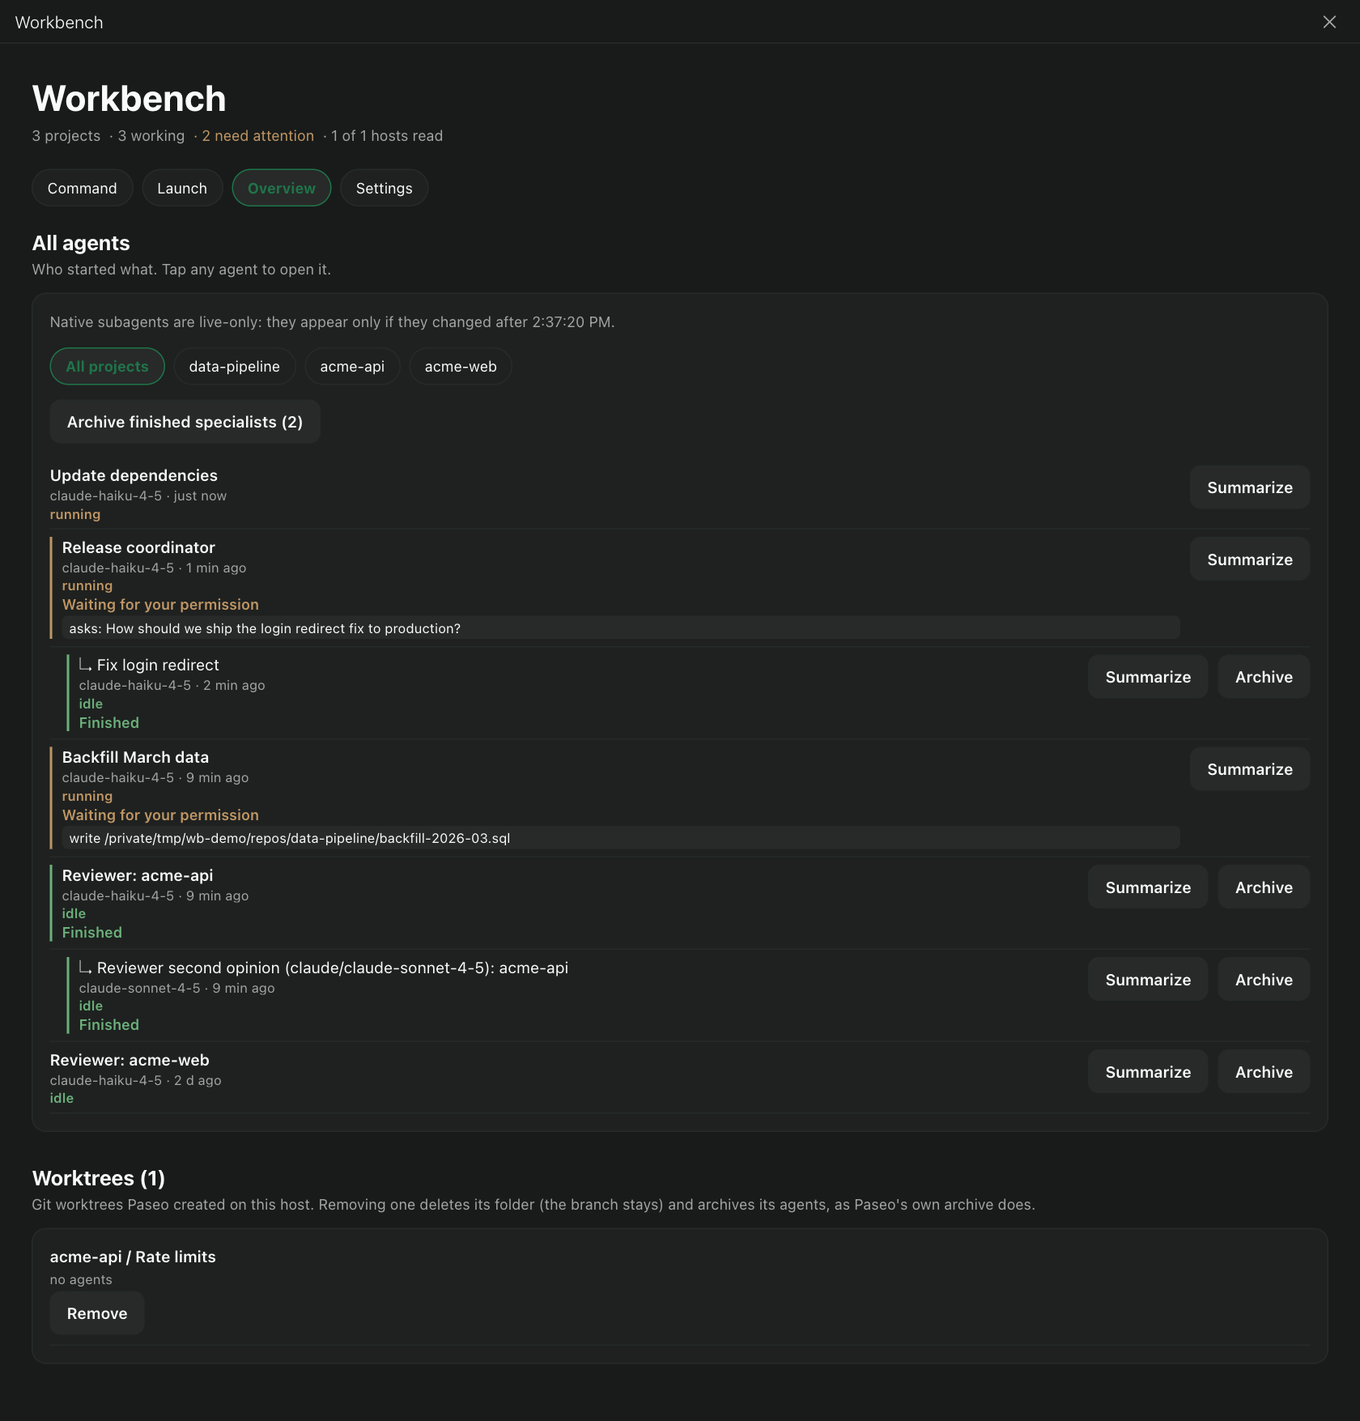
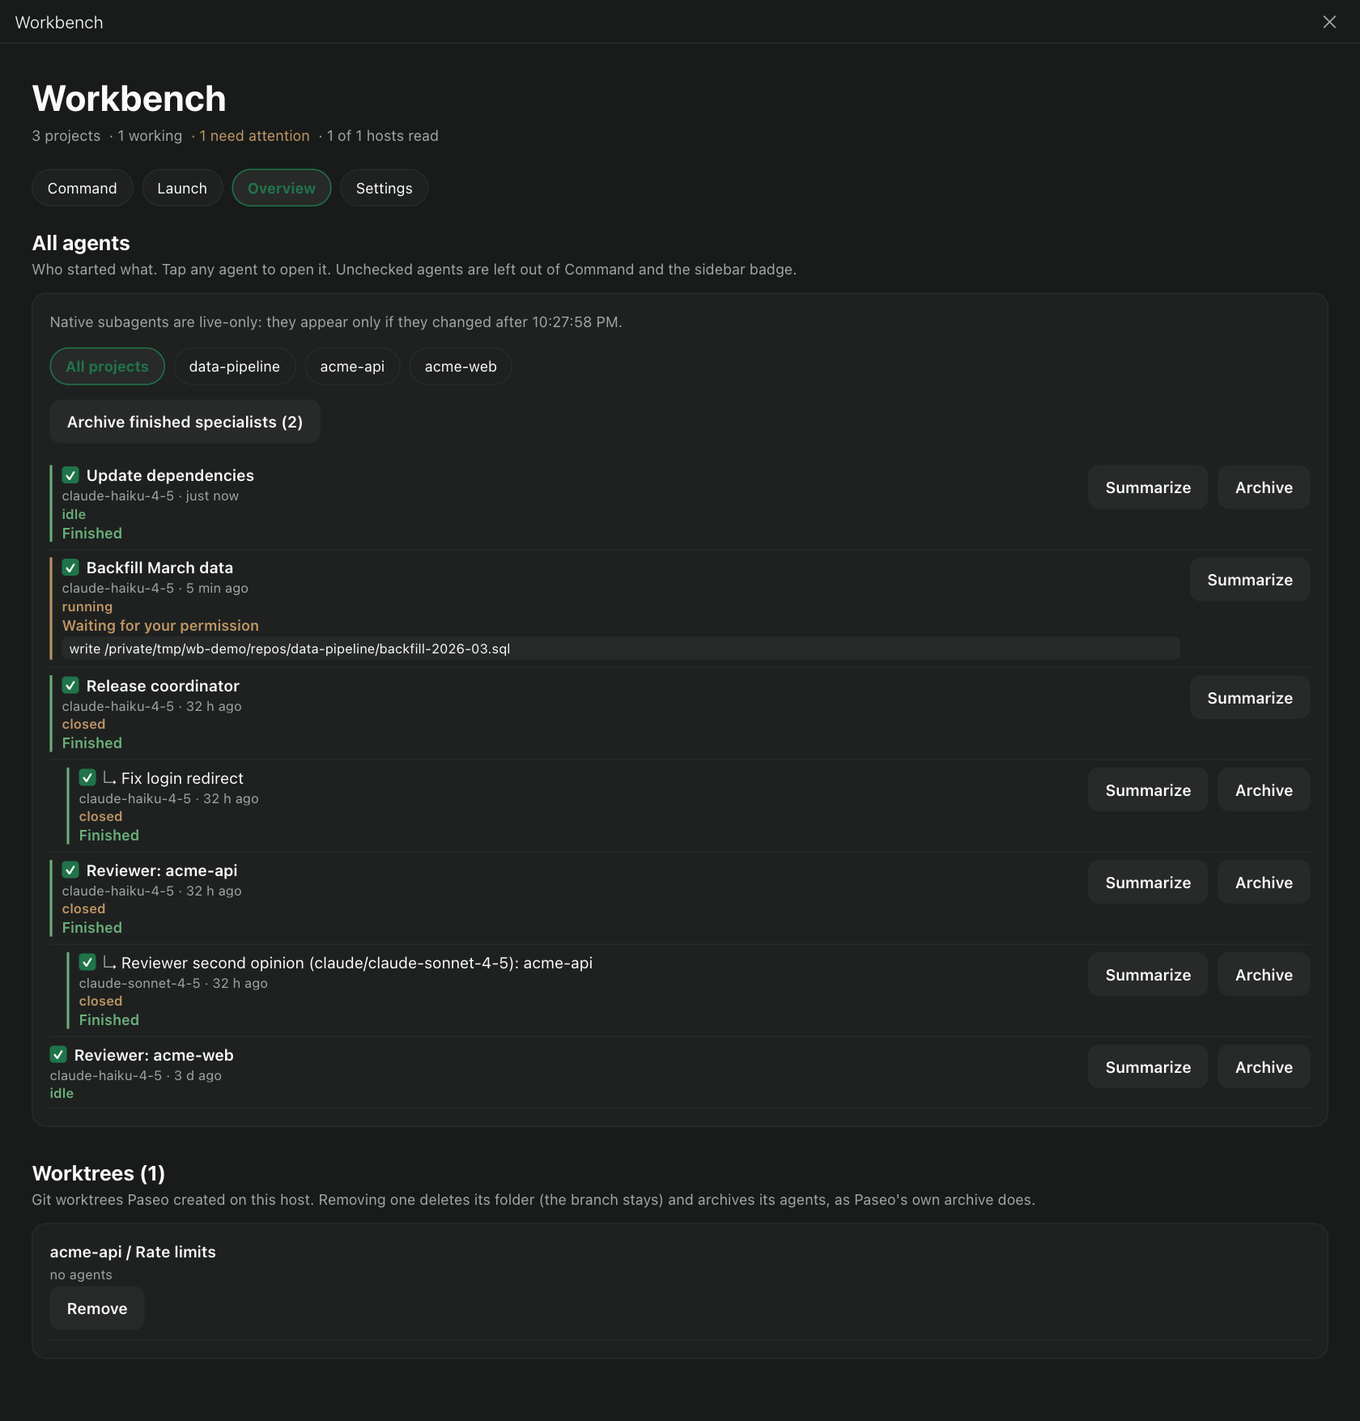
Overview watch checkbox; Command remembers the selected coordinator
- A checkbox per agent in Overview: unchecked agents (setting unwatchedAgents, "serverId:agentId") are left out of Command's lists and counts and the sidebar badge; Overview and coordinator trees still show them.
- The coordinator selected in Command is kept on globalThis per host: Paseo re-evaluates the module when the screen comes back.
- Overview screenshot updated. 0.1.0-alpha.28.

diff --git a/client/WorkbenchScreen.tsx b/client/WorkbenchScreen.tsx
@@ -3,7 +3,7 @@ import { getPaseoClient, useSettings } from "@getpaseo/plugin/client";
 import { useMemo, useState } from "react";
 import { ScrollView, Text, View } from "react-native";
 import { preferences, isCoordinatorHome, type Preferences } from "../shared/settings";
-import { attentionGroups, attentionHeadline, finishedSpecialists, groupProjects, isReadyToReview, isWorking, withTeam } from "../shared/model";
+import { agentKey, attentionGroups, attentionHeadline, finishedSpecialists, groupProjects, isReadyToReview, isWorking, watchedAgents, withTeam } from "../shared/model";
 import { useCoordinators } from "./Coordinators";
 import { LaunchTab } from "./LaunchTab";
 import { AttentionList } from "./AttentionList";
@@ -22,6 +22,11 @@ import { importSpecialists, mergeSpecialists } from "../shared/specialistFiles";
 
 type Tab="command"|"launch"|"overview"|"settings";
 
+// The coordinator chosen in Command, per host. Paseo unmounts this screen when you open another chat and evaluates
+// this module again when it comes back, so neither component state nor a module variable kept it; globalThis lasts
+// while the app runs (not across restarts).
+const selectedCoordinator=((globalThis as {__workbenchSelectedCoordinator?:Map<string,string>}).__workbenchSelectedCoordinator??=new Map<string,string>());
+
 export function WorkbenchScreen(props:PluginScreenProps) {
   const {theme}=props;
   const settings=useSettings(preferences);
@@ -36,7 +41,8 @@ export function WorkbenchScreen(props:PluginScreenProps) {
 function ReadyWorkbench({host,theme,layout,navigation,directory,values,onSave}:PluginScreenProps & {directory:ReturnType<typeof useDirectory>;values:Preferences;onSave:(next:Preferences)=>Promise<boolean>}){
   const [tab,setTab]=useState<Tab>("command");
   const [overviewFilter,setOverviewFilter]=useState("");
-  const [commandSelection,setCommandSelection]=useState("");
+  const [commandSelection,setSelection]=useState(()=>selectedCoordinator.get(host.id)??"");
+  const setCommandSelection=(id:string)=>{selectedCoordinator.set(host.id,id);setSelection(id)};
   const [importText,setImportText]=useState("");
   const [confirmBulk,setConfirmBulk]=useState(false);
   const [worktreesVersion,setWorktreesVersion]=useState(0);
@@ -44,11 +50,22 @@ function ReadyWorkbench({host,theme,layout,navigation,directory,values,onSave}:P
   const [message,setMessage]=useState<{kind:"info"|"error"|"success";text:string}|null>(null);
   // Coordinator homes are Workbench plumbing, not user projects.
   const projects=useMemo(()=>groupProjects(directory.workspaces.filter(w=>!isCoordinatorHome(w.directory)),directory.agents),[directory.workspaces,directory.agents]);
-  const attentionByProject=useMemo(()=>attentionGroups(directory.agents,projects),[directory.agents,projects]);
+  // Command and its counts follow the agents checked in Overview; Overview and coordinator trees show every agent.
+  const watched=useMemo(()=>watchedAgents(directory.agents,values.unwatchedAgents),[directory.agents,values.unwatchedAgents]);
+  const attentionByProject=useMemo(()=>attentionGroups(watched,projects),[watched,projects]);
   const attention=attentionByProject.flatMap(g=>g.items);
-  const attentionIndex=useMemo(()=>new Map(attention.map(i=>[`${i.serverId}:${i.agentId}`,i])),[attentionByProject]);
-  const running=directory.agents.filter(isWorking);
-  const readyToReview=directory.agents.filter(isReadyToReview);
+  const attentionIndex=useMemo(()=>new Map(attention.map(i=>[agentKey(i),i])),[attentionByProject]);
+  const allAttentionIndex=useMemo(()=>new Map(attentionGroups(directory.agents,projects).flatMap(g=>g.items).map(i=>[agentKey(i),i])),[directory.agents,projects]);
+  const running=watched.filter(isWorking);
+  const readyToReview=watched.filter(isReadyToReview);
+  const unwatched=new Set(values.unwatchedAgents);
+  /** Check or uncheck an agent in Overview: whether Command and the sidebar badge count it. */
+  async function toggleWatched(agentId:string,serverId:string){
+    const key=agentKey({agentId,serverId});
+    // shortcut: ids of archived agents are never pruned; the oldest go once the 2000-entry cap is reached.
+    const next=unwatched.has(key)?values.unwatchedAgents.filter(k=>k!==key):[...values.unwatchedAgents,key].slice(-2000);
+    if(!(await onSave({...values,unwatchedAgents:next})))setMessage({kind:"error",text:"Not saved: settings changed on another device, or the host could not be reached. Try again."});
+  }
   const unobserved=Object.keys(directory.errors).length;
   const headline=attentionHeadline(attention.length,unobserved,directory.updatedAt!==null);
   // Labels are display-only and can collide (two daemons on one machine); add the server id when they do.
@@ -129,15 +146,15 @@ function ReadyWorkbench({host,theme,layout,navigation,directory,values,onSave}:P
       <AttentionList theme={theme} groups={attentionByProject} hostSuffix={id=>id&&directory.hosts.length>1?` (${hostLabel(id)})`:""} openAgent={openAgent}/>
     </Section>:null}
     {tab==="command"?<Section theme={theme} title={`Running (${running.length})`}>
-      <RunningList theme={theme} agents={directory.agents} workspaces={directory.workspaces} needsYou={new Set(attentionIndex.keys())} hostSuffix={id=>directory.hosts.length>1?` (${hostLabel(id)})`:""} openAgent={openAgent}/>
+      <RunningList theme={theme} agents={watched} workspaces={directory.workspaces} needsYou={new Set(attentionIndex.keys())} hostSuffix={id=>directory.hosts.length>1?` (${hostLabel(id)})`:""} openAgent={openAgent}/>
     </Section>:null}
     {tab==="command"?<Section theme={theme} title={`Finished (${readyToReview.length})`} subtitle="Paseo's green dot: finished since you last opened it. Opening it in Paseo clears it.">
-      <RunningList theme={theme} kind="finished" agents={directory.agents} workspaces={directory.workspaces} needsYou={new Set()} hostSuffix={id=>directory.hosts.length>1?` (${hostLabel(id)})`:""} openAgent={openAgent}/>
+      <RunningList theme={theme} kind="finished" agents={watched} workspaces={directory.workspaces} needsYou={new Set()} hostSuffix={id=>directory.hosts.length>1?` (${hostLabel(id)})`:""} openAgent={openAgent}/>
     </Section>:null}
     {tab==="command"?<Command host={host} theme={theme} layout={layout} values={values} directory={directory} projects={projects} openAgent={openAgent} onSummarize={summarizeAction}
       coordinators={coordinators} selected={commandSelection} onSelect={setCommandSelection}/>:null}
     {tab==="overview"?<>
-      <Section theme={theme} title="All agents" subtitle="Who started what. Tap any agent to open it.">
+      <Section theme={theme} title="All agents" subtitle="Who started what. Tap any agent to open it. Unchecked agents are left out of Command and the sidebar badge.">
         <Notice theme={theme} text={`Native subagents are live-only: they appear only if they changed after ${directory.nativeSince?new Date(directory.nativeSince).toLocaleTimeString():"this screen opened"}.`}/>
         {Object.entries(directory.nativeErrors).map(([id,error])=><Notice key={id} theme={theme} kind="error" text={`${hostLabel(id)}: native subagent feed unavailable (${error}).`}/>)}
         <Wrap><Choice theme={theme} label="All projects" selected={!overviewFilter} onPress={()=>setOverviewFilter("")}/>
@@ -153,7 +170,8 @@ function ReadyWorkbench({host,theme,layout,navigation,directory,values,onSave}:P
             <Button theme={theme} subtle label={confirmBulk?`Confirm: archive ${finished.length} finished specialist${finished.length===1?"":"s"}`:`Archive finished specialists (${finished.length})`} onPress={()=>{if(!confirmBulk){setConfirmBulk(true);return;}setConfirmBulk(false);void archive(finished)}}/>
             {confirmBulk?<Button theme={theme} subtle label="Cancel" onPress={()=>setConfirmBulk(false)}/>:null}
           </Wrap>:null}
-          <AgentTree theme={theme} agents={agents} native={native} attention={attentionIndex} openAgent={openAgent} onSummarize={summarizeAction} onArchive={archiveOne} empty={unobserved?"No agents on reachable hosts with this filter.":"No agents found with this filter."}/></>;
+          <AgentTree theme={theme} agents={agents} native={native} attention={allAttentionIndex} openAgent={openAgent} onSummarize={summarizeAction} onArchive={archiveOne}
+            watched={(agentId,serverId)=>!unwatched.has(agentKey({agentId,serverId}))} onToggleWatched={(agentId,serverId)=>void toggleWatched(agentId,serverId)} empty={unobserved?"No agents on reachable hosts with this filter.":"No agents found with this filter."}/></>;
         })()}
       </Section>
       <Worktrees theme={theme} version={worktreesVersion}/>

diff --git a/client/AgentTree.tsx b/client/AgentTree.tsx
@@ -7,7 +7,7 @@ import { Button, Notice, Status } from "./ui";
  * Who started what: managed agents nested by Paseo's parent label, provider-native children (live-only) under
  * their parent, and on each node what it is waiting on from you, or that it finished since you last opened it.
  */
-export function AgentTree({ theme, agents, native, attention, openAgent, onSummarize, empty, releasable, onRelease, onArchive }: {
+export function AgentTree({ theme, agents, native, attention, openAgent, onSummarize, empty, releasable, onRelease, onArchive, watched, onToggleWatched }: {
   theme: PluginTheme; agents: readonly WorkbenchAgent[]; native: readonly NativeSubagent[];
   attention: ReadonlyMap<string, AttentionItem>; openAgent: (agentId: string, serverId: string) => void;
   /** Launch the Session summarizer on a managed agent; omitted where that is not possible. */
@@ -16,6 +16,8 @@ export function AgentTree({ theme, agents, native, attention, openAgent, onSumma
   releasable?: ReadonlySet<string>; onRelease?: (agentId: string) => void;
   /** Archive an agent that is done, with its review team (see shared/model.ts `teamArchivable`); omitted where not offered. */
   onArchive?: (agentId: string, serverId: string) => void;
+  /** A checkbox per managed agent: whether Command and the sidebar badge count it (Overview only). */
+  watched?: (agentId: string, serverId: string) => boolean; onToggleWatched?: (agentId: string, serverId: string) => void;
 }) {
   const now = Date.now();
   const color = { permission: theme.colors.statusWarning, error: theme.colors.statusDanger };
@@ -30,7 +32,17 @@ export function AgentTree({ theme, agents, native, attention, openAgent, onSumma
         style={({ pressed }) => ({ paddingLeft: Math.min(row.depth, 8) * 14, paddingVertical: 6, borderBottomWidth: 1, borderColor: theme.colors.border, backgroundColor: pressed ? theme.colors.surface2 : "transparent" })}>
         <View style={{ flexDirection: "row", gap: 8, justifyContent: "space-between", alignItems: "flex-start", flexWrap: "wrap", borderLeftWidth: mark ? 2 : 0, borderColor: mark ? mark.color : "transparent", paddingLeft: mark ? 8 : 0 }}>
           <View style={{ flex: 1, minWidth: 150, gap: 2 }}>
-            <Text style={{ color: theme.colors.foreground, fontSize: 13, fontWeight: row.depth === 0 ? "600" : "400" }}>{row.depth ? "↳ " : ""}{row.title}</Text>
+            <View style={{ flexDirection: "row", gap: 6, alignItems: "flex-start" }}>
+              {watched && onToggleWatched && row.kind === "managed" ? (() => {
+                const on = watched(row.agentId, row.serverId);
+                return <Pressable accessibilityRole="checkbox" accessibilityState={{ checked: on }} aria-checked={on} accessibilityLabel={`Show ${row.title} in Command and the sidebar badge`} hitSlop={6}
+                  onPress={() => onToggleWatched(row.agentId, row.serverId)}
+                  style={{ width: 14, height: 14, marginTop: 2, borderRadius: 3, borderWidth: 1, borderColor: on ? theme.colors.accent : theme.colors.foregroundMuted, backgroundColor: on ? theme.colors.accent : "transparent", alignItems: "center", justifyContent: "center" }}>
+                  {on ? <Text style={{ color: theme.colors.accentForeground, fontSize: 10, lineHeight: 12, fontWeight: "800" }}>✓</Text> : null}
+                </Pressable>;
+              })() : null}
+              <Text style={{ flexShrink: 1, color: theme.colors.foreground, fontSize: 13, fontWeight: row.depth === 0 ? "600" : "400" }}>{row.depth ? "↳ " : ""}{row.title}</Text>
+            </View>
             <Text style={{ color: theme.colors.foregroundMuted, fontSize: 11 }} numberOfLines={2}>
               {row.kind === "native" ? "Native subagent (read-only, live-only; opens its parent) · " : ""}{[row.subtitle, ago(row.updatedAt, now)].filter(Boolean).join(" · ")}
             </Text>

diff --git a/client/SidebarItem.tsx b/client/SidebarItem.tsx
@@ -1,30 +1,30 @@
 import type { PluginSidebarItemProps } from "@getpaseo/plugin/client";
-import { usePaseo } from "@getpaseo/plugin/client";
+import { usePaseo, useSettings } from "@getpaseo/plugin/client";
 import { SidebarRow } from "@getpaseo/plugin/client/ui";
 import { useEffect, useState } from "react";
 import { Text, View } from "react-native";
-import { groupProjects, sidebarCounts, type SidebarCounts } from "../shared/model";
-import { isCoordinatorHome } from "../shared/settings";
+import { groupProjects, sidebarCounts, watchedAgents, type WorkbenchAgent, type WorkbenchWorkspace } from "../shared/model";
+import { isCoordinatorHome, preferences } from "../shared/settings";
 import { directoryForHost, watchAgents } from "./directory";
 
-/** This host's counts, refreshed about a second after any agent changes, and every 15 seconds. Null until read (or unreadable). */
-function useCounts(serverId: string) {
+/** This host's agents, refreshed about a second after any agent changes, and every 15 seconds. Null until read (or unreadable). */
+function useHostDirectory(serverId: string) {
   const paseo = usePaseo();
-  const [counts, setCounts] = useState<SidebarCounts | null>(null);
+  const [dir, setDir] = useState<{ agents: WorkbenchAgent[]; workspaces: WorkbenchWorkspace[] } | null>(null);
   useEffect(() => {
     let alive = true;
     const load = async () => {
       try {
-        const dir = await directoryForHost(paseo, serverId);
-        if (alive) setCounts(sidebarCounts(dir.agents, groupProjects(dir.workspaces.filter((w) => !isCoordinatorHome(w.directory)), dir.agents)));
-      } catch { if (alive) setCounts(null); }
+        const read = await directoryForHost(paseo, serverId);
+        if (alive) setDir(read);
+      } catch { if (alive) setDir(null); }
     };
     void load();
     const poll = setInterval(() => void load(), 15_000);
     const unwatch = watchAgents(paseo, () => void load());
     return () => { alive = false; clearInterval(poll); unwatch(); };
   }, [serverId]);
-  return counts;
+  return dir;
 }
 
 /**
@@ -47,7 +47,11 @@ const BUCKETS = [["needsInput", "needs input", "alert"], ["failed", "failed", "d
 
 /** The Workbench sidebar row, with a count per Paseo status (dot colour as in Paseo's sidebar) for agents on this host. */
 export function SidebarItem({ currentScreen, openScreen, host, theme }: PluginSidebarItemProps) {
-  const counts = useCounts(host.id);
+  const dir = useHostDirectory(host.id);
+  const settings = useSettings(preferences);
+  // Only agents checked in Overview count; until settings load, every agent does.
+  const agents = dir ? watchedAgents(dir.agents, settings.status === "ready" ? settings.values.unwatchedAgents : []) : null;
+  const counts = dir && agents ? sidebarCounts(agents, groupProjects(dir.workspaces.filter((w) => !isCoordinatorHome(w.directory)), agents)) : null;
   const dots = DOTS[isDark(theme.colors.surface0) ? "dark" : "light"];
   const shown = counts ? BUCKETS.filter(([key]) => counts[key] > 0) : [];
   const trailing = counts && shown.length ? <View style={{ flexDirection: "row", gap: 8, alignItems: "center" }}>

diff --git a/shared/model.ts b/shared/model.ts
@@ -64,6 +64,17 @@ export type AgentRow = {
   updatedAt: string;
 };
 
+/** An agent's key across hosts, as stored in settings (unwatchedAgents). */
+export function agentKey(agent: { serverId: string; agentId: string }): string {
+  return `${agent.serverId}:${agent.agentId}`;
+}
+
+/** The agents Command and the sidebar badge count: all except those unchecked in Overview. */
+export function watchedAgents<T extends { serverId: string; agentId: string }>(agents: readonly T[], unwatched: readonly string[]): T[] {
+  const off = new Set(unwatched);
+  return agents.filter((a) => !off.has(agentKey(a)));
+}
+
 export function projectKey(serverId: string, projectId: string): string {
   return `${serverId}:${projectId}`;
 }

diff --git a/shared/settings.ts b/shared/settings.ts
@@ -123,6 +123,9 @@ export const preferences = defineSettings({
     coordinators: z.array(CoordinatorSchema).max(20).default([DEFAULT_COORDINATOR]),
     // A folder on this host of specialist Markdown files (see shared/specialistFiles.ts), read live. Empty: none.
     specialistsFolder: z.string().max(500).default(""),
+    // Agents unchecked in Overview ("serverId:agentId"): left out of Command's lists, its counts and the sidebar badge.
+    // Agents are checked by default, so only the exceptions are stored.
+    unwatchedAgents: z.array(z.string().max(200)).max(2000).default([]),
   }),
 });
 

diff --git a/README.md b/README.md
@@ -1,6 +1,6 @@
 # Workbench for Paseo
 
-**Status: 0.1.0-alpha.27. Validated against installed Paseo 0.12.0 on a disposable daemon (see [docs/TEST_REPORT.md](docs/TEST_REPORT.md)). Not yet run inside the native mobile app.**
+**Status: 0.1.0-alpha.28. Validated against installed Paseo 0.12.0 on a disposable daemon (see [docs/TEST_REPORT.md](docs/TEST_REPORT.md)). Not yet run inside the native mobile app.**
 
 Workbench adds a cross-project overview, Coordinators that orchestrate agents, and independent reusable specialist agents (with an opt-in second opinion) to Paseo. It uses native Paseo agents, workspaces, agent labels, plugin settings, and the existing mobile-compatible plugin UI. It does not replace Claude Code's own delegation, create a mission engine, or change Paseo's core.
 
@@ -38,7 +38,7 @@ Workbench adds a cross-project overview, Coordinators that orchestrate agents, a
 - **Review modes**: Single, **Second opinion** (a second reviewer on another model; the main reviewer verifies its findings), or **Committee** (both review independently, Workbench gives each the other's review to check, then the main reviewer writes the consensus with where they diverged). Each profile has a default; the Reviewer's is Committee. Set the second reviewer's model per profile (any provider in the catalog). The plugin server relays reports when the receiving agent is idle (and steers rather than interrupts if a turn just started), sends each relay message exactly once (a relay id in the target's timeline blocks repeats), and resumes after a restart at the next agent event on the host. A committee or second opinion that cannot form is refused before any task is sent. A committee member that fails is reported to the chair, which then finishes as a single review. The relay runs in the plugin of the host whose Workbench you launch from, so a workspace on another host gets a single review, and is not offered for scheduling from there.
 - **Read-only boundary for specialists** (on by default): see below.
 - **Workspace and agent panels**, plus Command Center entries ("Open Workbench specialists", "Review agent work independently"). A review launched from an agent is shown as its child; it does not inherit the conversation.
-- **Overview**: the tree of who started what (managed agents by Paseo's parent label, provider-native subagents observed **live only**), each node with what it waits on from you or **Finished**, and **Summarize** on any agent.
+- **Overview**: the tree of who started what (managed agents by Paseo's parent label, provider-native subagents observed **live only**), each node with what it waits on from you or **Finished**, a checkbox per agent (checked by default; unchecked agents are left out of Command's lists, its counts and the sidebar badge, but stay in Overview and coordinator trees; saved in this host's Workbench settings), and **Summarize** on any agent.
 - **Session summarizer**: from **Launch** (In a workspace → "An agent's conversation" → pick the agent), from an agent's panel ("This agent's session"), or **Summarize** in a tree, a read-only specialist reads that agent's conversation (from Paseo; nothing is written to your repository), checks its claims against the repository, and reports decisions, changes, verified vs claimed, open questions and next steps.
 - **Needs attention** from Paseo's own agent state, grouped by project, most urgent first: why each agent needs you, the exact command/file/URL of a pending permission, the error, and how long ago. Finished agents are under **Finished** instead. Agents started by another agent (committee members, a Coordinator's workers) are labeled with who started them. No LLM classification.
 - **Specialists** can be added (**+ New specialist**), edited and deleted in Settings.

diff --git a/CHANGELOG.md b/CHANGELOG.md
@@ -1,5 +1,9 @@
 # Changelog
 
+## 0.1.0-alpha.28 — 2026-10-26
+- Overview: a checkbox on each agent decides whether Command (Needs attention, Running, Finished, the header counts) and the sidebar badge count it. Checked by default; unchecked agents stay in Overview and coordinator trees. Saved in this host's Workbench settings, so it survives reloads and other devices see it.
+- Command remembers which coordinator you were talking to when you open another Paseo chat and come back (while the app runs).
+
 ## 0.1.0-alpha.27 — 2026-10-26
 - Sidebar badge mimics Paseo: one count per status with Paseo's own marks, colours and sizes left to right: amber "!" needs input, red dot failed, green dot ready to review, blue dot in a ring working; zero counts hidden. It used to show one amber count and a grey "▶ n".
 
